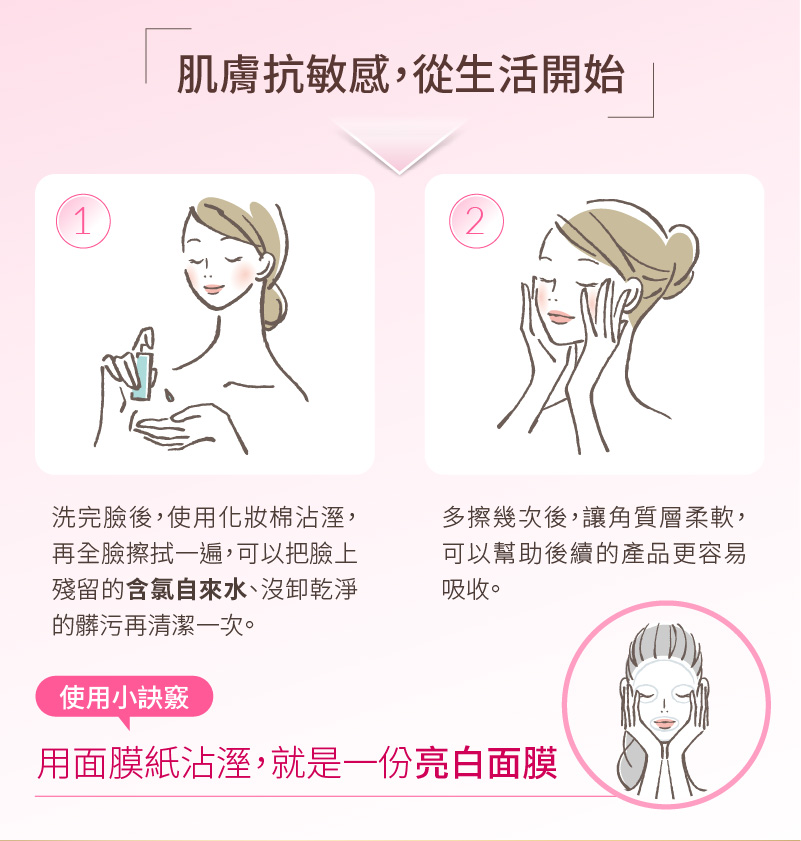
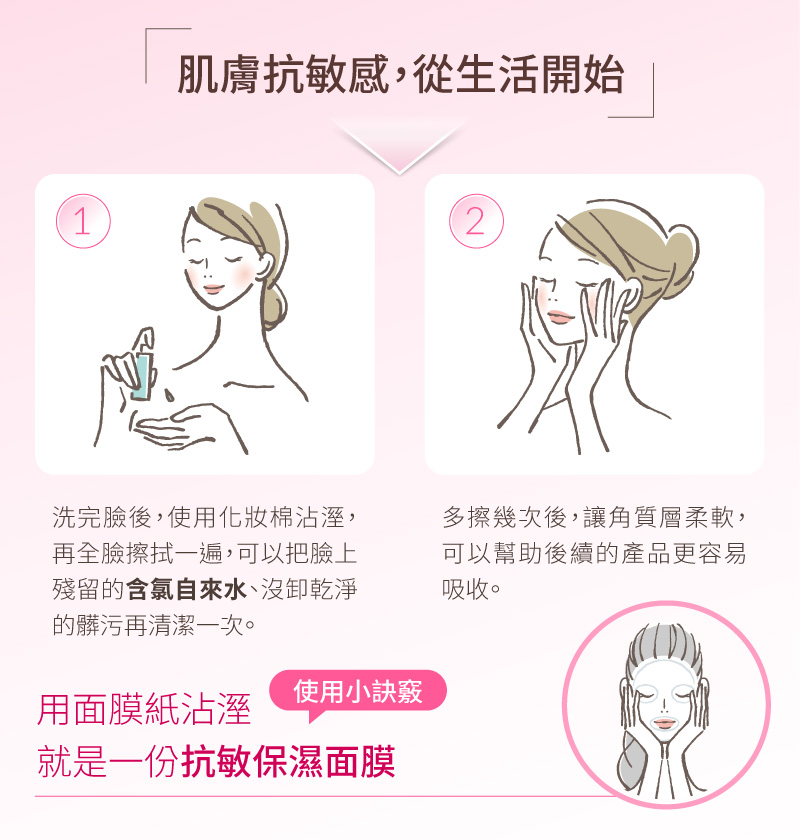
Update 2017-02-19T13:02:57.744Z

diff --git a/index.html b/index.html
@@ -2,18 +2,18 @@
 <html lang="en" ng-app="app">
 <head>
   <meta charset="UTF-8">
-  <title>一用就愛上的美容油 - 紫根抗老修護精粹油</title>
+  <title>專為敏感肌膚設計 - 玫瑰煥顏修護精露</title>
   <meta name="viewport" content="width=device-width, initial-scale=1">
-  <meta property="og:title" content="一用就愛上的美容油 - 紫根抗老修護精粹油" />
+  <meta property="og:title" content="專為敏感肌膚設計 - 玫瑰煥顏修護精露" />
   <meta property="og:description" content="天氣變冷就感到乾乾巴巴嗎？冷風中必備肌膚防護的最佳幫手，乾冷天氣的濕潤享受，讓水水們輕鬆養成輕盈美透肌 - 紫根抗老修護精粹油。" />
   <meta property="og:image" content="http://store.yajiami.com.tw/images/og_images/og_images_lighten.png" />
   <meta property="og:site_name" content="雅佳蜜" />
   <meta property="og:locale" content="zh_TW" />
-  <link rel="stylesheet" href="/stylesheets/all.css?1487480858195" media="screen" charset="utf-8">
+  <link rel="stylesheet" href="/stylesheets/all.css?1487507812198" media="screen" charset="utf-8">
   <link rel="stylesheet" href="https://maxcdn.bootstrapcdn.com/font-awesome/4.7.0/css/font-awesome.min.css">
   <link rel="stylesheet" href="https://cdnjs.cloudflare.com/ajax/libs/animate.css/3.5.2/animate.css">
-  <script src="/js/vendor.js?1487480858195"></script>
-  <script src="/js/all.js?1487480858195"></script>
+  <script src="/js/vendor.js?1487507812198"></script>
+  <script src="/js/all.js?1487507812198"></script>
 </head>
 <body>
   <div class="container-fluid mb-2" style="max-width: 800px;">
@@ -61,7 +61,7 @@
       <img src="/images/img_calltoaction_02.jpg?201701120929" alt="" class="img-fluid">
     </a> -->
   </section>
-  
+
   <p class="text-xs-center text-muted">
     高雄衛粧廣字號第 10401058 號
   </p>
@@ -134,7 +134,7 @@
   </a>
 </div>
 
-<input type="hidden" id="footer-clock" value="2017/3/12">
+<input type="hidden" id="footer-clock" value="2017/3/14">
 
   <!-- start Mixpanel --><script type="text/javascript">(function(e,a){if(!a.__SV){var b=window;try{var c,l,i,j=b.location,g=j.hash;c=function(a,b){return(l=a.match(RegExp(b+"=([^&]*)")))?l[1]:null};g&&c(g,"state")&&(i=JSON.parse(decodeURIComponent(c(g,"state"))),"mpeditor"===i.action&&(b.sessionStorage.setItem("_mpcehash",g),history.replaceState(i.desiredHash||"",e.title,j.pathname+j.search)))}catch(m){}var k,h;window.mixpanel=a;a._i=[];a.init=function(b,c,f){function e(b,a){var c=a.split(".");2==c.length&&(b=b[c[0]],a=c[1]);b[a]=function(){b.push([a].concat(Array.prototype.slice.call(arguments,
   0)))}}var d=a;"undefined"!==typeof f?d=a[f]=[]:f="mixpanel";d.people=d.people||[];d.toString=function(b){var a="mixpanel";"mixpanel"!==f&&(a+="."+f);b||(a+=" (stub)");return a};d.people.toString=function(){return d.toString(1)+".people (stub)"};k="disable time_event track track_pageview track_links track_forms register register_once alias unregister identify name_tag set_config reset people.set people.set_once people.increment people.append people.union people.track_charge people.clear_charges people.delete_user".split(" ");
